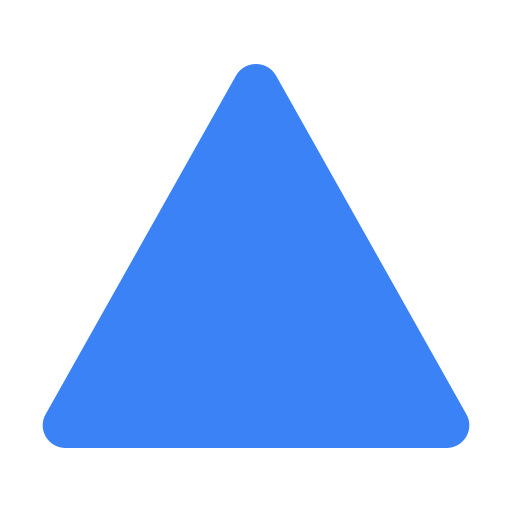
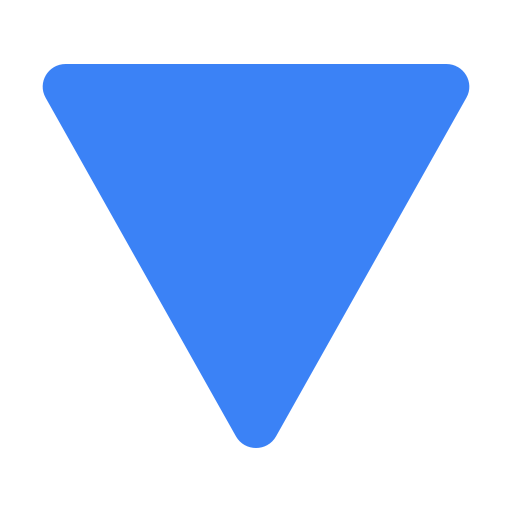
✨[FE]Feat : API 연결

diff --git a/Frontend/src/components/Main/total.tsx b/Frontend/src/components/Main/total.tsx
@@ -69,11 +69,15 @@ const Total: React.FC<Props> = ({ childId }) => {
           <div className=" pl-3 text-start text-gray-700">
             얼마가 모였는지 확인해 볼까요?
           </div>
+          <div className=" pl-3 text-start text-gray-700">
+            <span className="text-xl mr-1">{childDetail?.creditRating}</span>건
+            진행중이에요.
+          </div>
           <div className="px-3 pb-2 text-end">
             {/* <div className="text-white text-xl">+ {childDetail.}</div> */}
             <div className="text-gray-700 text-2xl">
               {childDetail?.deposit
-                ? `${childDetail.deposit}원 모았어요!`
+                ? `${childDetail.deposit.toLocaleString()}원 모았어요!`
                 : "Loading..."}
             </div>
           </div>
@@ -95,27 +99,28 @@ const Total: React.FC<Props> = ({ childId }) => {
             오늘 주식시장엔 어떤 변화가 있을까요?
           </div>
           <div className="px-3 pb-2 text-end">
-            <div className="text-gray-700 text-xl">
-              {childDetail?.stockRate ? (
-                <>
-                  {childDetail.stockRate > 0 ? (
-                    <img src={up} alt="Up" />
-                  ) : (
-                    <img src={down} alt="Down" />
-                  )}
-                  {Math.abs(childDetail.stockRate)}
-                </>
+            <div className="text-gray-700 text-xl flex justify-end items-center">
+              {childDetail?.stockRate > 0 || childDetail?.stockRate === 0 ? (
+                <img
+                  style={{ width: "10px", height: "10px", marginRight: "5px" }}
+                  src={up}
+                  alt="Up"
+                />
               ) : (
-                "Loading..."
+                <img
+                  style={{ width: "10px", height: "10px" }}
+                  src={down}
+                  alt="Down"
+                />
               )}
-              {/* {childDetail?.stockRate
-                ? `+ ${childDetail.stockRate} 얼마`
+              {Math.abs(childDetail?.stockRate)}
+              {/* {childDetail?.stockRate > 0 || childDetail?.stockRate === 0
+                ? childDetail?.stockRate
                 : "Loading..."} */}
-              {/* {childDetail.stockRate} */}
+              {/* {childDetail?.stockRate ? childDetail?.stockRate : "Loading..."} */}
             </div>
             <div className="text-gray-700 text-3xl">
-              {childDetail?.stock || "Loading..."}
-              {/* {childDetail.stock} */}
+              {childDetail?.stock.toLocaleString()}
             </div>
           </div>
         </div>
@@ -147,13 +152,13 @@ const Total: React.FC<Props> = ({ childId }) => {
             className="rounded-2xl drop-shadow mb-3 text-xl"
             style={{ backgroundColor: "white" }}
           >
-            <div className="pt-2 pl-3 text-start">대출잔액</div>
-            {childDetail?.totalBalance === null ? (
+            <div className="pt-2 pl-3 text-start">대출 잔액</div>
+            {childDetail?.loanBalance === 0 ? (
               <div className="px-3 pt-4 pb-2 text-end">없어요</div>
             ) : (
               <div className="px-3 pt-4 pb-2 text-end">
-                {childDetail?.loneDay || "Loading..."}
-                {/* {childDetail.totalBalance} */}
+                {childDetail?.loanBalance.toLocaleString() + " 원" ||
+                  "Loading..."}
               </div>
             )}
           </div>

diff --git a/Frontend/src/components/AccountBook/Statics.tsx b/Frontend/src/components/AccountBook/Statics.tsx
@@ -115,6 +115,7 @@ const Statics: React.FC<Props> = ({ spendingAmount, importAmount, date }) => {
 
   useEffect(() => {
     // getData의 money값을 모두 0으로 초기화
+
     setConsumptionTypeNull([]);
     setExpenditure({ 욕구: 0, 필요: 0 });
     setGetData((prevData) => prevData.map((data) => ({ ...data, money: 0 })));
@@ -203,21 +204,33 @@ const Statics: React.FC<Props> = ({ spendingAmount, importAmount, date }) => {
       <div className="drop-shadow-lg rounded-xl bg-white mb-5">
         <div className="flex justify-between items-center my-3 p-3">
           <div className={`${styles.sumbox} mx-2 text-blue-500`}>
-            {importAmount?.toString()}
+            {importAmount || importAmount === 0
+              ? importAmount.toLocaleString("ko-KR")
+              : "Loading..."}
           </div>
           <div>
             <img className={styles.plusImg} src={minus} alt="minus" />
           </div>
           <div className={`${styles.sumbox} mx-2 text-red-500`}>
-            {spendingAmount?.toString()}
+            {spendingAmount || spendingAmount === 0
+              ? spendingAmount.toLocaleString("ko-KR")
+              : "Loading..."}
           </div>
           <div>
             <img className={styles.plusImg} src={Equal} alt="equal" />
           </div>
           {total > 0 ? (
-            <div className={`${styles.sumbox} mx-2 text-blue-500`}>{total}</div>
+            <div className={`${styles.sumbox} mx-2 text-blue-500`}>
+              {total || total === 0
+                ? total.toLocaleString("ko-KR")
+                : "Loading..."}
+            </div>
           ) : (
-            <div className={`${styles.sumbox} mx-2 text-red-500`}>{total}</div>
+            <div className={`${styles.sumbox} mx-2 text-red-500`}>
+              {total || total === 0
+                ? total.toLocaleString("ko-KR")
+                : "Loading..."}
+            </div>
           )}
         </div>
       </div>
@@ -252,7 +265,9 @@ const Statics: React.FC<Props> = ({ spendingAmount, importAmount, date }) => {
         </div>
         {tab === "소득" && (
           <div className="text-start py-2">
-            <div className="m-3 text-2xl">총 {importAmount}원 벌었어요!</div>
+            <div className="m-3 text-2xl">
+              총 {importAmount.toLocaleString()}원 벌었어요!
+            </div>
             {getData.map((item, index) => (
               <div
                 className="rounded-lg mx-5 my-1 flex justify-between"
@@ -266,7 +281,7 @@ const Statics: React.FC<Props> = ({ spendingAmount, importAmount, date }) => {
                   <div className="m-3 text-xl">{item.name}</div>
                 </div>
 
-                <div className="m-3 text-xl">{item.money}</div>
+                <div className="m-3 text-xl">{item.money.toLocaleString()}</div>
               </div>
             ))}
           </div>
@@ -274,7 +289,7 @@ const Statics: React.FC<Props> = ({ spendingAmount, importAmount, date }) => {
         {tab === "지출" && (
           <div>
             <div className="m-3 text-2xl text-start">
-              총 {spendingAmount}원 썼어요!
+              총 {spendingAmount.toLocaleString()}원 썼어요!
             </div>
             <div className="flex justify-between items-center">
               <div className="mt-2">

diff --git a/Frontend/src/pages/Parents/PchildDetail.tsx b/Frontend/src/pages/Parents/PchildDetail.tsx
@@ -41,6 +41,21 @@ const PchildDetail: React.FC = () => {
     creditRating: "",
   });
 
+  const [childList, setChildList] = useState([]);
+
+  const getChildList = () => {
+    axios
+      .get(`https://j9e207.p.ssafy.io/api/v1/parents/34/child`)
+      .then((response) => {
+        console.log("자녀리스트");
+        setChildList(response.data.data);
+        console.log(response.data.data);
+      })
+      .catch((error) => {
+        console.log(error);
+      });
+  };
+
   // useEffect(() => {
   //   if (id !== undefined) {
   //     const matchingChild = Data.find((child) => child.id === parseInt(id));
@@ -66,6 +81,7 @@ const PchildDetail: React.FC = () => {
 
   useEffect(() => {
     geChildDetail();
+    getChildList();
   }, []);
 
   const handleLinkClick = (id?: number, name?: string) => {
@@ -77,17 +93,19 @@ const PchildDetail: React.FC = () => {
   return (
     <div className="pt-24 max-h">
       <div className="flex overflow-x-scroll mx-3 mb-2">
-        {Data.filter((list) => list.id !== childData.id).map((list) => (
-          <Link
-            to={`/Pchilddetail/${list.id}`}
-            key={list.id}
-            className="flex flex-col items-center m-1"
-            onClick={() => handleLinkClick(list.id, list.name)}
-          >
-            <div className="w-16 h-16 rounded-full bg-blue-500 mb-2"></div>
-            <p>{list.name}</p>
-          </Link>
-        ))}
+        {childList
+          .filter((list) => list.childId !== childData.id)
+          .map((list) => (
+            <Link
+              to={`/Pchilddetail/${list.childId}`}
+              key={list.id}
+              className="flex flex-col items-center m-1"
+              onClick={() => handleLinkClick(list.childId, list.childName)}
+            >
+              <div className="w-16 h-16 rounded-full bg-blue-500 mb-2"></div>
+              <p>{list.name}</p>
+            </Link>
+          ))}
       </div>
       <div
         className="bg-white m-3 rounded-xl mb-4 drop-shadow-xl "
@@ -102,7 +120,7 @@ const PchildDetail: React.FC = () => {
           </div> */}
         </div>
         <div className="text-5xl text-center p-3 pl-5 text-white">
-          {childDetail.totalBalance}
+          {childDetail.totalBalance.toLocaleString()}
         </div>
         <div>{/* <MenuList /> */}</div>
         <div className="flex justify-center text-white pb-2">
@@ -158,12 +176,11 @@ const PchildDetail: React.FC = () => {
               style={{
                 backgroundColor: "#93C4FF",
               }}
-              // onClick={clickStock}
             >
               <div className="text-2xl pt-2 pl-3 text-start text-gray-700">
                 예금 내역
               </div>
-              <div className="px-3 pb-2 text-end flex justify-end items-center">
+              <div className="px-3 pt-3 text-end flex justify-end items-center">
                 <div className="text-gray-700 text-4xl mr-3">3</div>
                 <div className="text-gray-700 text-2xl">건</div>
                 <div className="ml-2">

diff --git a/Frontend/src/pages/Child/Main.tsx b/Frontend/src/pages/Child/Main.tsx
@@ -3,6 +3,8 @@ import Total from "../../components/Main/total";
 import MenuList from "../../components/Main/MenuList";
 import { useRecoilState } from "recoil";
 import { stateAtom, state } from "../../recoil/stateAtom";
+import { childIdAtom } from "../../recoil/childIdAtom";
+import { balanceAtom } from "../../recoil/balanceAtom";
 import Boy from "../../../src/assets/main/boy_1.png";
 import axios from "axios";
 import Bot from "../Child/Bot/Bot";
@@ -22,6 +24,7 @@ const Main: React.FC = () => {
   const [state, setState] = useRecoilState(stateAtom);
   const [getAllowance, setGetAllowance] = useState(0);
   const [childDetail, setChildDetail] = useState<Detail>();
+  const [totalBalance, setTotalBalance] = useRecoilState(balanceAtom);
 
   const getDetail = () => {
     console.log("asiox..");
@@ -30,6 +33,7 @@ const Main: React.FC = () => {
       .get(`https://j9e207.p.ssafy.io/api/v1/childs/child/34`)
       .then((response) => {
         setChildDetail(response.data.data);
+        setTotalBalance(response.data.data.totalBalance);
         console.log(response.data.data);
       })
       .catch((error) => {
@@ -96,7 +100,7 @@ const Main: React.FC = () => {
               ? "로딩 중..."
               : childDetail.totalBalance === null
               ? "남은 용돈이 없어요"
-              : childDetail.totalBalance}
+              : childDetail.totalBalance.toLocaleString()}
           </div>
           <div>
             <MenuList />
@@ -118,7 +122,7 @@ const Main: React.FC = () => {
           />
         </div>
         <div className="text-2xl text-start pl-3">
-          <div>심규렬님의</div>
+          <div>{childDetail?.username}님의</div>
           <div>현재 잔액은</div>
         </div>
       </div>

diff --git a/Frontend/src/components/Bot/BotModal.tsx b/Frontend/src/components/Bot/BotModal.tsx
@@ -1,17 +1,19 @@
 import React, { ReactNode } from "react";
 import ReactDOM from "react-dom";
 
-
 interface BackdropProps {
-    onClick: () => void;
-  }
+  onClick: () => void;
+}
 
 const Backdrop: React.FC<BackdropProps> = (props) => {
-    const handleBackdropClick = () => {
-        props.onClick();
-      };
+  const handleBackdropClick = () => {
+    props.onClick();
+  };
   return (
-    <div className="fixed top-0 left-0 w-screen h-screen z-20 bg-black bg-opacity-30" onClick={handleBackdropClick}/>
+    <div
+      className="fixed top-0 left-0 w-screen h-screen z-20 bg-black bg-opacity-30"
+      onClick={handleBackdropClick}
+    />
   );
 };
 
@@ -30,15 +32,15 @@ const ModalOverlay: React.FC<ModalOverlayProps> = (props) => {
 interface ModalProps {
   // eslint-disable-next-line @typescript-eslint/no-explicit-any
   [x: string]: any;
-  children: ReactNode;
+  children?: ReactNode;
 }
 
 const BotModal: React.FC<ModalProps> = (props) => {
-    const closeModal = () => {
-        // Add your close modal logic here
-        props.closeModal();
-        console.log("Modal closed");
-      };
+  const closeModal = () => {
+    // Add your close modal logic here
+    props.closeModal();
+    console.log("Modal closed");
+  };
   return (
     <React.Fragment>
       {ReactDOM.createPortal(

diff --git a/Frontend/dev-dist/sw.js b/Frontend/dev-dist/sw.js
@@ -82,7 +82,7 @@ define(['./workbox-5357ef54'], (function (workbox) { 'use strict';
     "revision": "3ca0b8505b4bec776b69afdba2768812"
   }, {
     "url": "index.html",
-    "revision": "0.a2u7itpklk8"
+    "revision": "0.ejk3vf0jrf"
   }], {});
   workbox.cleanupOutdatedCaches();
   workbox.registerRoute(new workbox.NavigationRoute(workbox.createHandlerBoundToURL("index.html"), {

diff --git a/Frontend/src/pages/Parents/Pmain.tsx b/Frontend/src/pages/Parents/Pmain.tsx
@@ -105,7 +105,7 @@ const Pmain: React.FC = () => {
                   className="text-black"
                   onClick={() => getchild(list.childId)}
                 >
-                  {/* {list.childName} */}뭐
+                  {list.childName}
                 </Link>
               </div>
             </li>

diff --git a/Frontend/src/pages/Child/Bot/Bot.tsx b/Frontend/src/pages/Child/Bot/Bot.tsx
@@ -12,7 +12,7 @@ const Bot: React.FC = () => {
     <div className="">
       <img
         src="src/assets/강아지.png"
-        width={"100px"}
+        width={"70px"}
         onClick={() => handleOpen(1)}
       ></img>
       {open === 1 && <Chatbotmain closeModal={handleOpen}></Chatbotmain>}

diff --git a/Frontend/src/recoil/balanceAtom.tsx b/Frontend/src/recoil/balanceAtom.tsx
@@ -1,0 +1,12 @@
+import { atom } from "recoil";
+
+export interface money {
+  totalBalance: number;
+}
+
+export const balanceAtom = atom<money>({
+  key: "balanceAtom",
+  default: {
+    totalBalance: 0,
+  },
+});

diff --git a/Frontend/src/pages/Parents/Paccountbook.tsx b/Frontend/src/pages/Parents/Paccountbook.tsx
@@ -5,7 +5,6 @@ const Paccountbook: React.FC = () => {
   return (
     <div className="pt-24">
       <Calendar />
-      <h2>부모 - 자녀가계부</h2>
     </div>
   );
 };
